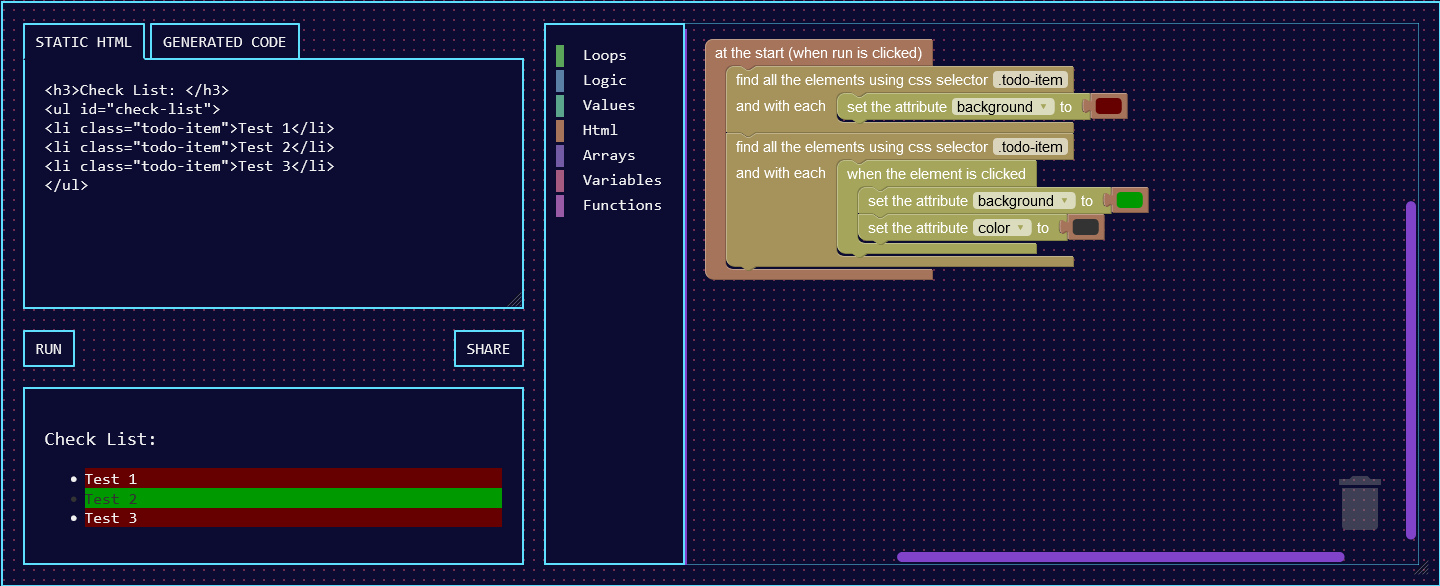
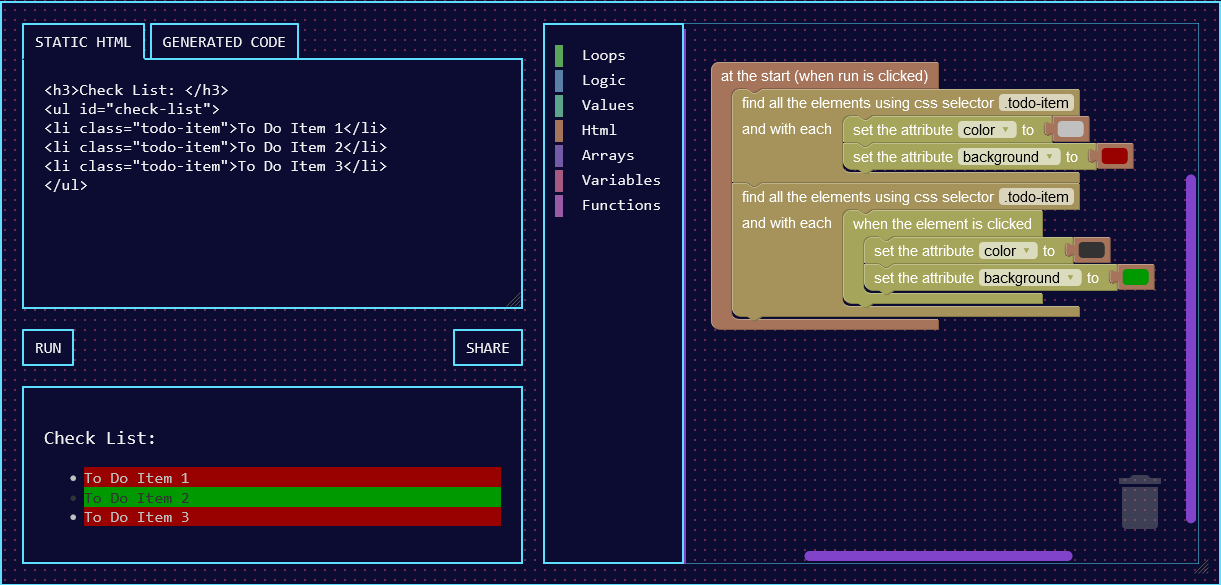
restructuring

diff --git a/index.html b/index.html
@@ -235,11 +235,11 @@
             <h2>Solution 23 - Some more "projects"</h2>
         </section>
         <section class="subsubheader">
-            <h3>Solution 23 Exercise 1 - Shopping list</h3>
-            <a href="" target="_blank">Link To Solution</a>
+            <h3>Solution 23 Exercise 1 - Shopping list (WORK IN PROGRESS)</h3>
+            <a href="https://blocks.codeyourfuture.io/share.html?v=('j!('blocks!('languageVersion!0~blocks!%5B('type!'on_start'~id!'S%3F'%3ANEma%3FG%7Bai1FF*8-hr'~x!23~y!-305~fields!('TEXT1!'at%20the%20start%20%7Bwhen%20run%20is%20clicked%7D')%7FHANDLER%C2%9BaK%248pr5Ra'%3A%5BUhTqnHPjd%C2%A3%C2%92)%7F%C2%94-%3DU%7C%2CC(p9b0fA%40(LU0cJ%C2%965)%7FADD0%C2%89J1%3D6A%25Y%2Bb1VWEw%5BiT%2BcE%C2%8D%C2%AF5guj%25x%3D6sjgH%3F%24*m%7CtGT%C2%8D%C2%AEcO%5B3s%7DlV%60vbT%2CxNpGbrv%C2%8D%C2%B0-f48IzT%5B%5D)%247K%25g%7B%40%40.s%C2%8Dtea')))~ADD4%C2%89T%2CTUOmipgv%3F%2FCM_%40gcT4%C2%8Dcoffee')))%C2%A2%C2%9BytK)k%2F40%3BDvAEO2K1i((%C2%A3%C2%8E)%7F%C2%94A%3BZx_CMJ.*atzaYt-u8W%C2%965)%7FADD0%C2%89Cz6)KEnc-b%7D%2CMHKA%7DA2M%C2%AB%C2%AF%3D0iAt%7B%7DrC%24E0WegR%3Aa%40s%C2%AB%C2%AE-)%60Vw%60T)BI6k%7Byi%5EDi%2C%23%C2%AB%C2%B0*PlpY%7D3qKVi7%2F_%3AIHeP5%C2%ABtea')))~ADD4%C2%89M%7DwEBvy.0OE6g%5D_I%23x7v%C2%ABcoffee')))%C2%A2%C2%9B7C9%7CK%2F%23v-C_1G_%2CfxaXe%C2%80%7F%C2%94E%2C'vdpGgm%3B%3Ai(Q%3B%2F%7Bip%40-%C2%960%C2%A2%C2%8C6%3FuuW)%25UX)%25%2C'%242U-SP%3FY%26ID!'product-list%C2%A4%C2%93HeNcj%5EA%2C'LgbW3TSrZ%5BnT%C2%A3%C2%88)%7F%C2%A0K8hED%2C'c4%5Em.YPk8a44Qs%C2%A3%C2%92)%C2%ADfAnig%5DL_DAdhIMv.*LUY%C2%98li%C2%87!')%3B%7B1NdVYRQ%7BrE(ZcV%3DHL%C2%82(aqTNZH%24U%2C'%2F%7B2OW7e*Wt%C2%8D%C2%90mo%2C'0%40%7D%3B%3Fn9aa_nbO%5EU)Z%C2%A3%C2%88%C2%A2%C2%95%3BSdfStH2rB3zDiUxaRHs%C2%8F%22%C2%83%25.Z%5EW%3F4D%23Tb6yF(vg%3BD*%C2%A3%C2%88)))%C2%AC'%3A%40%7D%2BLPShond%7BN)8%7BNGV%2F%C2%98button%C2%87!'26Dp-TV%2Fie99F%3D%3D(PgSr%C2%82%C2%85%C2%99Op0r%23Pe%5Ef%2CpjfJ%2FMf%2B%5B%60%C2%8DAdd%20To%C2%97'%C2%A2%C2%95D'%3ARk-YmZ153ABGrS%24%2B6%2B%C2%8F%C2%A8KRv%24FPw%3A95jki%60qE%3BbBY%26MODE!'GET_REMOVE'~WHERE!'FIRST')%7FVALUE%22%C2%83i4hfjqf%7B%40%60tJ%5D%3D%2B1V6hY%C2%A3%C2%8E)))))%C2%86'~id!'dpHm%2Bg%3Dw%2CC%2C't5'%3A%3ACP9M%40'~x!21~y!363%C2%84add-bread%C2%91%22arrays_push'~id!'avhvJDLq%3Fv%3BCYxBQaG8e%26WHERE!'END')%7FVALUE%C2%89(X0nleLLAB%7CGUH%25m7r%24%2F%C2%8Dbread')))~%C2%A0o%5E%7C7k.-F%5EIsJa%7DRt3Meu%C2%80)))~next%C2%8C%2FScJ4g_k%2C(V9JTx-%40mF5%C2%A7%C2%A9xsWDfI8w%5BYKuhdZyXyqI'~next%C2%93O%7Cl1Xa%60F%5D%2C%60%23pZg.HXVr%C2%81%7F%C2%A0t(s%24nWl%5DlT9t%40*HB%246aZ%C2%80%C2%ADLp%2CUq5%5BnDZ%2C1eO%2F%3Dx3%3Fc%C2%98li%C2%87!'s%23jD7%3D%40Nb5X%24CY'%3A6G%3AeB%C2%82%C2%9C%C2%90D%7B(*lF5Dm%25XDfJ%2Ftqegw%C2%81%C2%ACa1qLPsGF0x%5E*Or%60H4%7Cqi%C2%98button%C2%A4%C2%956D%2F_AEr%5BAWi%5B%7B*t%23_*%5Ec%C2%8F%C2%89kA%24MkbgW8IiX%3DrTSCtMH%C2%8D%C2%9Ft'~id!!wG2%3BXgytuziDSwI%24QpU%C2%82%C2%85%C2%99z%3D%5BFLmGNJ98%5E%3B9%25uR%7CV%7B%C2%A6%C2%86'~id!'%3B%2C'cm%60FjXHF4%3BA%25uscBQn'~x!21~y!774%C2%84remove-bread%C2%91%C2%A8P%40-Q%25wq'%3A%7C-c%2C5p(wCg9h'~extraState!('isStatement!true)~fields!('MODE!'REMOVE'~WHERE!'LAST')%7FVALUE%22%C2%83bN%5BX*KlSy%3DW)C%606A%7B7%5BB%C2%80)))~next%C2%8CXrrX*0_N%25o%2B%7Bt%3DWNCVnm%C2%A7%C2%A9FtdURN3YHU_3B1%5EXA%2F%2CJ'~next%C2%9381o%5EvLnK%40zMTaNys%2BgT4%C2%81%7F%C2%A0AIQVf%2C'%5EjY%3BITF%60H%7C%3F%3A%3Dh%C2%80%C2%ADqUrGPUa6Neja%2C'QeM__%5Bg%C2%98li%C2%87!'sBzQL%40%2F8NYvE%24dG9oiv%5B%C2%82%C2%9C%C2%90Icqr%3AECnK2k1g0Oy'%3A%60u%3D%C2%81%C2%AC.ZKLdrR%7CPjH)%2BSt%3FmeX0%C2%98button%C2%A4%C2%95R2%60%5D%2FiVP%3A7U%24fAGJl%2C'3%25%C2%8F%C2%89xF%3DH%3B62Q%40xoMDl5xKiHY%C2%8D%C2%9Ft'~id!'W%2BP-GMk%25nS%7DcTo%3AaDac%2B%C2%82%C2%85%C2%99vkW_6i'%3AFR6JY%3D4sxsRk7%C2%A6%C2%86'~id!'%5E7B%3ASj%3D%2C%3D-Z8wUntVR%2B%25'~x!28~y!1162%C2%84show-array-button%C2%91%C2%8CiG-%7B%5EC%7Be9Bo%25%7BP%40%25l%7CG%2C'%26ID!'show-array%C2%A4%C2%93nhiq4dikw%25SaN87%3DIi%7Cr%C2%81%7F%C2%A0(rt)q%3A2tt1)m%25UD%5D%3Drjr%C2%80%C2%ADaI%40sYaa%5EuO%603%5DZi0or%60E%C2%98div%C2%87!'oD%23Z7%5EnF%2365%5DPtk%23)IZD%C2%82X%3D8EI'%3AuZO%40A*fK*%7C'%3AH36%C2%8D%C2%90mADqp8X%2Fft%7BDta)vy1BT%C2%81))))))))))))))))%5D)~variables!%5B('name!'products'~%C2%92%C2%A1add'~id!'p%25%5B37jNZ3%3AO%5B%23%5Bxe9o'%3Au')%C2%A1ids'~%C2%8E%C2%A1item'~%C2%9E%C2%A1shopping-cart'~%C2%9D%C2%A1array'~id!'%2C'J%3ARLb%7Boj8R3'%3Ahs4nrnd')%C2%A1product'~%C2%88%5D)~h!'%20%20%20%20%3Ch3%3EProduct%C2%9Aproduct%C2%A5h3%3EShopping%C2%9Ashopping%C2%A5button%C2%AA-button%5C'%3Eshow%C2%97%20Array%20in%20current%20state%3C%2Fbutton%C2%8Bdiv%C2%AA%5C'%3E%3C%2Fdiv%3E')%22!('block!('type!'%26'~fields!('%7F~inputs!('%C2%80%C2%A3%C2%9D)%C2%81%C2%A3%C2%9E)%C2%82'%7FVALUE!('shadow!(%C2%99%C2%83variables_get'~id!'%C2%84~fields!('TEXT1!'when%20the%20element%20with%20id'~ID!'%C2%85_%7BaaGM%25%2C'Mbav9TCL%7DaD%60%C2%8D'))~block!(%C2%86)))))))))))))))))))))))))%2C('type!'element_clicked%C2%87%C2%A4%22set_content'~id%C2%88id!'r%3DuRUVIdO20v3%7B%3DV%3B(EG')%C2%89%22text'~id!'%C2%8A%22add_element'~id!'%C2%8B%3E%5Cn%20%20%20%20%3C%C2%8C%22with_element_by_id'~id!'%C2%8D%26TEXT!'%C2%8Eid!'5a7%2C(.hKEjt%2C'l%243t'%3Aa-I')%C2%8F%26PROPERTY!'id')%7FVALUE%C2%90'))~block!('type!'%C2%83%C2%91'~TEXT2!'is%20clicked')%7FHANDLER%C2%92id!'p%5BQD1%2Fm%2F0UEWu.AP8Fij')%C2%93%22arrays_forEach'~id!'%C2%94VALUE%22lists_create_with'~id!'%C2%95%22set_attribute'~id!'%C2%96'~extraState!('itemCount!%C2%97%20Shopping%20Cart%C2%98%26ELEMENT!'%C2%99'type!'text'~id!'%C2%9A%20List%3A%3C%2Fh3%C2%8Bul%20id%3D%5C'%C2%9B%22variables_set'~id!'%C2%9CV%2C'd%24J_H7v9dUX%401QL_DP%C2%8DBread%C2%9Did!'yU%7D7Tn%2C'6Ar58eEBG%5E_%5E%3D')%C2%9Eid!'(o%2CC%2BFYk5P_P%2Fs%2BW5qx%3A')%C2%9Fremove-bread'%C2%A2%22set_conten%C2%A0LIST%22%C2%83%C2%A1%2C('name!'%C2%A2))))~next%C2%A3%26VAR!('%C2%A4')%7FSTACK%C2%A5-list%5C'%3E%3C%2Ful%C2%8B%C2%A6%C2%8DRemove%20From%C2%97'%C2%A7%26ID!'shopping-list%C2%A4%C2%A8%22arrays_getFirst'~id!'%C2%A9%22remove_contents'~id!'%C2%AA%20id%3D%5C'show-array%C2%AB%C2%8Dadd-%C2%AC))%C2%A2%C2%8A%C2%AD))~DO%C2%8A%C2%AEcheese')))~ADD2%C2%89%C2%AFbread')))~ADD1%C2%89%C2%B0milk')))~ADD3%C2%89%01%C2%B0%C2%AF%C2%AE%C2%AD%C2%AC%C2%AB%C2%AA%C2%A9%C2%A8%C2%A7%C2%A6%C2%A5%C2%A4%C2%A3%C2%A2%C2%A1%C2%A0%C2%9F%C2%9E%C2%9D%C2%9C%C2%9B%C2%9A%C2%99%C2%98%C2%97%C2%96%C2%95%C2%94%C2%93%C2%92%C2%91%C2%90%C2%8F%C2%8E%C2%8D%C2%8C%C2%8B%C2%8A%C2%89%C2%88%C2%87%C2%86%C2%85%C2%84%C2%83%C2%82%C2%81%C2%80%7F%26%22_" target="_blank">Link To Solution</a>
         </section>
         <section class="image">
-            <img src="images/exercise2301.png" alt="">
+            <img src="images/exercise2301-wip.png" alt="">
         </section>
         <section class="subsubheader">
             <h3>Solution 23 Exercise 2 - List with a hidden 2nd level</h3>
@@ -257,7 +257,7 @@
         </section>
         <section class="subsubheader">
             <h3>Solution 23 Exercise 4 - Create a check list</h3>
-            <a href="https://blocks.codeyourfuture.io/share.html?v=('j!('blocks!('languageVersion!0~blocks!%5B('type!'on_start'~id!'hj2%3F%3BsnyJz%3F%2C'36keiV-4'~x!20~y!16~fields!('TEXT1!'at%20the%20start%20%7Bwhen%20run%20is%20clicked%7D%C2%82HANDLER%C2%81URvy%2B-i71ko37Fz.%60E%256%C2%80%7F0hDgNttFIZ%60rV%40hMgrTx%C2%83%7Cer'~id!'7amWueNwS*)%2C'H8mSkh3*%C2%84660000')))))))~next%C2%81sD%3AOfA%25rpk%7Bd3xMMMh%7Dm%C2%80%22element_clicked_current'~id!'AH0%3A%24t4S%24%241sSX%2B%7DM*Jr%5ETEXT1!'when%20the%20element%20is%20clicked%C2%82HANDLER%7FyaG~%3AoZE1y5z)JYu*Hl%3F%C2%83%7Cer'~id!'o8dIL%5Da_i%3FK%24%23PhCRO%609%C2%84009900'))))~next%7F3p%25tqPk5B8yhDr%5D%5BpFk6%5EPROPERTY!'c%7Cer'~id!')ludnOs'%3A%2300%23g5-M7ODN%C2%84333333'))))))))))))))))))%5D))~h!'%3Ch3%3ECheck%20List%3A%20%3C%2Fh3%3E%5Cn%3Cul%20id%3D%5C'check-list%5C'%261%3C%2Fli%262%3C%2Fli%263%3C%2Fli%3E%5Cn%3C%2Ful%3E')%22!('block!('type!'%26%3E%5Cn%3Cli%20class%3D%5C'todo-item%5C'%3ETest%20%5E'~fields!('%7Color%C2%82VALUE%22colour_pick%7F%22set_attribute'~id!'%C2%80%5EQUERY!'.todo-item%C2%82STACK%C2%81%22with_elements_by_selector'~id!'%C2%82')~inputs!('%C2%83%5EPROPERTY!'backgroundC%C2%84%5ECOLOUR!'%23%01%C2%84%C2%83%C2%82%C2%81%C2%80%7F%7C%5E%26%22_" target="_blank">Link To Solution</a>
+            <a href="https://blocks.codeyourfuture.io/share.html?v=('j!('blocks!('languageVersion!0~blocks!%5B('type!'on_start'~id!'1U(J3%2BBr)xNwo7q4_)H_'~x!27~y!39~fields!('TEXT1!'at%20the%20start%20%7Bwhen%20run%20is%20clicked%7D%C2%87HANDLER%C2%86d%40Vsorf%7D'%3A%7B%25YDNTJ%5Dc9w%C2%83%C2%81im%7C%7ChW%3AKd2rywceaaH7A%C2%85c%7Fer'~id!'%60KUt%3AgzLUCO.%2Cz1b%7CH%2Bo%C2%84c0c0c0'))))~next%C2%81%24%7Bb%2CNQbaMQM%7CZI%24%7BeOGu%C2%85backgroundC%7Fer'~id!'%7Cfl%7DI%5D%7Cy%2B%23O0AETF.BCq%C2%84990000')))))))))~next%C2%86n4LW2UnVDy(%2C'q%5B_Z-QLb%C2%83%22element_clicked_current'~id!'5.Itqo5w%7CL%40n%5DfR2J%5B%5Ea%C2%80TEXT1!'when%20the%20element%20is%20clicked%C2%87HANDLER%C2%81A%7BocEL0srDpE%7DR%3B%24%25r.Q%C2%85c%7Fer'~id!'P%3Dxl%7Bh%2F%60F%2C'B8G(DYdJ13%C2%84333333'))))~next%C2%81iQ%3FY%5DS-pnl%7Cbce1s%3FffW%C2%85backgroundC%7Fer'~id!'DsU.j*zy%5D44%7B%5EB_%7D%7D%7DzM%C2%84009900'))))))))))))))))))%5D)~variables!%5B('name!'products'~id!'p%5BQD1%2Fm%2F0UEWu.AP8Fij%C2%82add'~id!'p%25%5B37jNZ3%3AO%5B%23%5Bxe9o'%3Au%C2%82ids'~id!'5a7%2C(.hKEjt%2C'l%243t'%3Aa-I%C2%82item'~id!'(o%2CC%2BFYk5P_P%2Fs%2BW5qx%3A%C2%82shopping-cart'~id!'yU%7D7Tn%2C'6Ar58eEBG%5E_%5E%3D%C2%82array'~id!'%2C'J%3ARLb%7Boj8R3'%3Ahs4nrnd%C2%82product'~id!'r%3DuRUVIdO20v3%7B%3DV%3B(EG')%5D)~h!'%3Ch3%3ECheck%20List%3A%20%3C%2Fh3%3E%5Cn%3Cul%20id%3D%5C'check-list%5C'%261%3C%2Fli%262%3C%2Fli%263%3C%2Fli%3E%5Cn%3C%2Ful%3E')%22!('block!('type!'%26%3E%5Cn%3Cli%20class%3D%5C'todo-item%5C'%3ETo%20Do%20Item%20%7Folor%C2%87VALUE%22colour_pick%C2%80'~fields!('%C2%81%22set_attribute'~id!'%C2%82')%2C('name!'%C2%83%C2%80QUERY!'.todo-item%C2%87STACK%C2%84%C2%80COLOUR!'%23%C2%85%C2%80PROPERTY!'%C2%86%22with_elements_by_selector'~id!'%C2%87')~inputs!('%01%C2%87%C2%86%C2%85%C2%84%C2%83%C2%82%C2%81%C2%80%7F%26%22_" target="_blank">Link To Solution</a>
         </section>
         <section class="image">
             <img src="images/exercise2304.png" alt="">

diff --git a/testing/exercise2402/main.js b/testing/exercise2402/main.js
@@ -1,0 +1,77 @@
+var currentlyVisibleFiles, currentlyVisibleFolders;
+
+function toggleFolderVisibility() {
+    if (currentlyVisibleFolders == false) {
+        document.querySelectorAll('.folder').forEach((element) => {
+            element.style.visibility = (true) ? 'visible' : 'hidden';
+            console.log('baz toggle folder vis ON')
+        });
+        currentlyVisibleFolders = true;
+    } else if (currentlyVisibleFolders == true) {
+        document.querySelectorAll('.folder').forEach((element) => {
+            element.style.visibility = (false) ? 'visible' : 'hidden';
+            console.log('baz toggle folder vis OFF')
+        });
+        currentlyVisibleFolders = false;
+    }
+}
+
+function toggleFileVisibility() {
+    if (currentlyVisibleFiles == false) {
+        document.querySelectorAll('.file').forEach((element) => {
+            element.style.visibility = (true) ? 'visible' : 'hidden';
+            console.log('baz toggle file vis ON')
+        });
+        currentlyVisibleFiles = true;
+    } else if (currentlyVisibleFiles == true) {
+        document.querySelectorAll('.file').forEach((element) => {
+            element.style.visibility = (false) ? 'visible' : 'hidden';
+            console.log('baz toggle file vis OFF')
+        });
+        currentlyVisibleFiles = false;
+    }
+}
+
+function collapseAll() {
+    document.querySelectorAll('.file').forEach((element) => {
+        element.style.visibility = (false) ? 'visible' : 'hidden';
+
+    });
+    currentlyVisibleFiles = false;
+    document.querySelectorAll('.folder').forEach((element) => {
+        element.style.visibility = (false) ? 'visible' : 'hidden';
+
+    });
+    currentlyVisibleFolders = false;
+}
+
+
+document.querySelectorAll('.folder').forEach((element) => {
+    element.style.visibility = (false) ? 'visible' : 'hidden';
+
+});
+document.querySelectorAll('.file').forEach((element) => {
+    element.style.visibility = (false) ? 'visible' : 'hidden';
+
+});
+currentlyVisibleFolders = false;
+currentlyVisibleFiles = false;
+
+
+document.getElementById('root').addEventListener('click', (event) => {
+    if (currentlyVisibleFolders == false) {
+        toggleFolderVisibility();
+    } else {
+        collapseAll();
+        console.log('baz collapseAll')
+    }
+
+});
+document.querySelectorAll('.folder').forEach((element) => {
+
+    element.addEventListener('click', (event) => {
+        event.stopPropagation()
+        toggleFileVisibility();
+
+    });
+});

diff --git a/testing/exercise2401/main.js b/testing/exercise2401/main.js
@@ -1,0 +1,67 @@
+var products, ids, shopping_cart, item, product;
+
+
+products = ['bread', 'cheese', 'milk', 'tea', 'coffee'];
+ids = ['add-bread', 'add-cheese', 'add-milk', 'add-tea', 'add-coffee'];
+shopping_cart = [];
+let element_product_list = document.getElementById('product-list');
+products.forEach((product) => {
+    let new_li = document.createElement('li');
+    new_li.innerText = product;
+    new_li.setAttribute("id", product);
+
+    element_product_list.appendChild(new_li);
+    let new_button = document.createElement('button');
+    new_button.innerText = 'Add To Shopping Cart';
+    new_button.setAttribute("id", ids.shift());
+
+    element_product_list.appendChild(new_button);
+});
+
+
+document.getElementById('add-bread').addEventListener('click', (event) => {
+    shopping_cart.push('bread');
+    let element_shopping_list = document.getElementById('shopping-list');
+    element_shopping_list.replaceChildren();
+    shopping_cart.forEach((item) => {
+        let new_li2 = document.createElement('li');
+        new_li2.innerText = item;
+
+        element_shopping_list.appendChild(new_li2);
+        let new_button2 = document.createElement('button');
+        new_button2.setAttribute("id", 'remove-bread');
+        new_button2.innerText = 'Remove From Shopping Cart';
+
+        element_shopping_list.appendChild(new_button2);
+    });
+
+});
+
+document.getElementById('remove-bread').addEventListener('click', (event) => {
+    shopping_cart.pop();
+    let element_shopping_list2 = document.getElementById('shopping-list');
+    element_shopping_list2.replaceChildren();
+    shopping_cart.forEach((item) => {
+        let new_li3 = document.createElement('li');
+        new_li3.innerText = item;
+
+        element_shopping_list2.appendChild(new_li3);
+        let new_button3 = document.createElement('button');
+        new_button3.setAttribute("id", 'remove-bread');
+        new_button3.innerText = 'Remove From Shopping Cart';
+
+        element_shopping_list2.appendChild(new_button3);
+    });
+
+});
+
+document.getElementById('show-array-button').addEventListener('click', (event) => {
+    let element_show_array = document.getElementById('show-array');
+    shopping_cart.forEach((item) => {
+        let new_div = document.createElement('div');
+        new_div.innerText = item;
+
+        element_show_array.appendChild(new_div);
+    });
+
+});

diff --git a/testing/exercise2402/index.html b/testing/exercise2402/index.html
@@ -6,11 +6,34 @@
     <meta http-equiv="X-UA-Compatible" content="IE=edge">
     <meta name="viewport" content="width=device-width, initial-scale=1.0">
     <link rel="stylesheet" href="styles.css">
-    <title>Exercise 24 02</title>
+    <title>Exercise 24 02 - List with a hidden 2nd level</title>
 </head>
 
 <body>
-
+    <ul>
+        <li id="root">root
+            <ul>
+                <li class="folder">css
+                    <ul>
+                        <li class="file">styles.css</li>
+                    </ul>
+                </li>
+                <li class="folder">images
+                    <ul>
+                        <li class="file">image001.jpg</li>
+                        <li class="file">image002.jpg</li>
+                        <li class="file">image003.jpg</li>
+                    </ul>
+                </li>
+                <li class="folder">js
+                    <ul>
+                        <li class="file">main.js</li>
+                    </ul>
+                </li>
+                <li class="folder">index.html</li>
+            </ul>
+        </li>
+    </ul>
     <script src="main.js"></script>
 </body>
 

diff --git a/testing/exercise2404/index.html b/testing/exercise2404/index.html
@@ -5,33 +5,9 @@
     <meta http-equiv="X-UA-Compatible" content="IE=edge">
     <meta name="viewport" content="width=device-width, initial-scale=1.0">
     <link rel="stylesheet" href="styles.css">
-    <title>Exercise 24 04</title>
+    <title>Exercise 24 04 - Create a check list</title>
 </head>
 <body>
-    <ul>
-        <li id="root">root
-            <ul>
-                <li class="folder">css
-                    <ul>
-                        <li class="file">styles.css</li>
-                    </ul>
-                </li>
-                <li class="folder">images
-                    <ul>
-                        <li class="file">image001.jpg</li>
-                        <li class="file">image002.jpg</li>
-                        <li class="file">image003.jpg</li>
-                    </ul>
-                </li>
-                <li class="folder">js
-                    <ul>
-                        <li class="file">main.js</li>
-                    </ul>
-                </li>
-                <li class="folder">index.html</li>
-            </ul>
-        </li>
-    </ul>
     <script src="main.js"></script>
 </body>
 </html>

diff --git a/testing/exercise2402/styles.css b/testing/exercise2402/styles.css
@@ -1,0 +1,39 @@
+* {
+    box-sizing: border-box;
+    margin: 0;
+    padding: 0;
+    border: 0;
+}
+
+body {
+    max-width: 400px;
+    background: rgb(75, 75, 75);
+    color: rgb(32, 32, 32);
+    font-family: Arial, sans-serif;
+    /* text-shadow: 0px 0px 1px black; */
+}
+
+ul,
+li {
+    padding: 0.5rem 1rem;
+    border: 0.1rem solid black;
+    border-radius: 0.3rem;
+    box-shadow: 1px 1px 1px black;
+    list-style: square;
+}
+
+body>ul {
+    background: rgb(131, 79, 168);
+}
+
+#root {
+    background: rgb(95, 148, 202);
+}
+
+.folder {
+    background: lightskyblue;
+}
+
+.file {
+    background: lightgreen;
+}

diff --git a/testing/exercise2401/index.html b/testing/exercise2401/index.html
@@ -6,11 +6,16 @@
     <meta http-equiv="X-UA-Compatible" content="IE=edge">
     <meta name="viewport" content="width=device-width, initial-scale=1.0">
     <link rel="stylesheet" href="styles.css">
-    <title>Exercise 24 01</title>
+    <title>Exercise 24 01 Shopping list</title>
 </head>
 
 <body>
-
+    <h3>Product List:</h3>
+    <ul id="product-list"></ul>
+    <h3>Shopping List:</h3>
+    <ul id="shopping-list"></ul>
+    <button id="show-array-button">show Shopping Cart Array in current state</button>
+    <div id="show-array"></div>
     <script src="main.js"></script>
 </body>
 

diff --git a/testing/exercise2403/index.html b/testing/exercise2403/index.html
@@ -6,11 +6,11 @@
     <meta http-equiv="X-UA-Compatible" content="IE=edge">
     <meta name="viewport" content="width=device-width, initial-scale=1.0">
     <link rel="stylesheet" href="styles.css">
-    <title>Exercise 24 04</title>
+    <title>Exercise 24 03 - Hamburger</title>
 </head>
 
 <body>
-
+    
     <script src="main.js"></script>
 </body>
 

diff --git a/testing/exercise2405/index.html b/testing/exercise2405/index.html
@@ -6,7 +6,7 @@
     <meta http-equiv="X-UA-Compatible" content="IE=edge">
     <meta name="viewport" content="width=device-width, initial-scale=1.0">
     <link rel="stylesheet" href="styles.css">
-    <title>Exercise 24 05</title>
+    <title>Exercise 24 05 - Creat a todo list</title>
 </head>
 
 <body>
